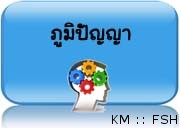
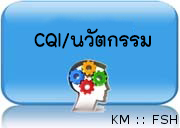
update from server

diff --git a/surasak3/med_record_print_2023_add.php b/surasak3/med_record_print_2023_add.php
@@ -1,0 +1,26 @@
+<?php
+session_start();
+include("connect.inc");
+if($_POST["active"]=="add"){
+	$date=(date("Y")+543)."-".date("m-d");
+	$act=$_POST["act"];
+	$an=$_POST["an"];
+	$hn=$_POST["hn"];
+	$getmonth=$_POST["month"];
+	$getyear=$_POST["year"];
+	$getdate=$_POST["date"];
+	
+	$add="insert into dgprofile_approve set date='".$date."',
+										an='".$_POST["an"]."',
+										period='".$_POST["period"]."',
+										type='".$_POST["typemar"]."',
+										nurse='".$sOfficer."',
+										lastupdate='".date("Y-m-d H:i:s")."'";
+	//echo $add;
+	if($query=mysql_query($add)){
+		echo "<script>alert('บันทึกการตรวจสอบให้ยาผู้ป่วย AN:$an ในระบบเรียบร้อย');window.location='ipd_drugmar.php?an=$an&hn=$hn&month=$getmonth&year=$getyear&date=$getdate';</script>";
+	}else{
+		echo "<script>alert('ผิดพลาด ไม่สามารถบันทึกการให้ตรวจสอบห้ยาผู้ป่วย AN:$an ในระบบได้');window.location='med_record_print_2023.php?act=$act&an=$an&hn=$hn&month=$getmonth&year=$getyear&date=$getdate';</script>";
+	}
+}
+?>

diff --git a/surasak3/med_record_print_2023.php b/surasak3/med_record_print_2023.php
@@ -1,6 +1,9 @@
 <?
 session_start();
 include("connect.inc");
+
+// var_dump($_SESSION);
+// exit;
 ?>
 <!DOCTYPE html>
 <html lang="en">

diff --git a/surasak3/ipd_drugmar.php b/surasak3/ipd_drugmar.php
@@ -1,6 +1,7 @@
 <?php
 session_start();
 include("connect.inc");
+// var_dump($_SESSION);
 
      $month_["01"] = "มกราคม";
     $month_["02"] = "กุมภาพันธ์";